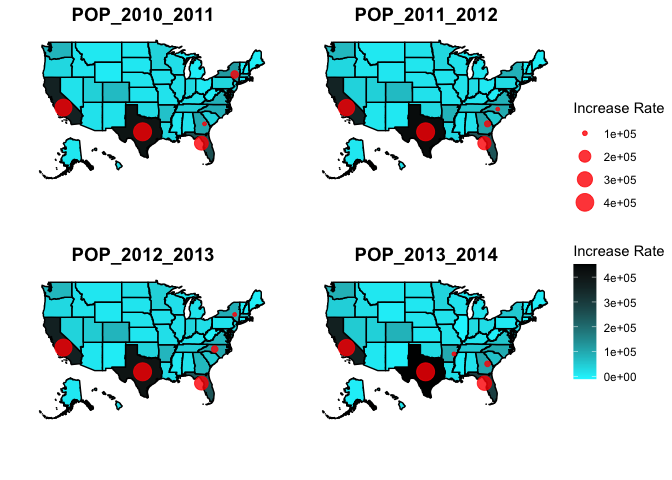
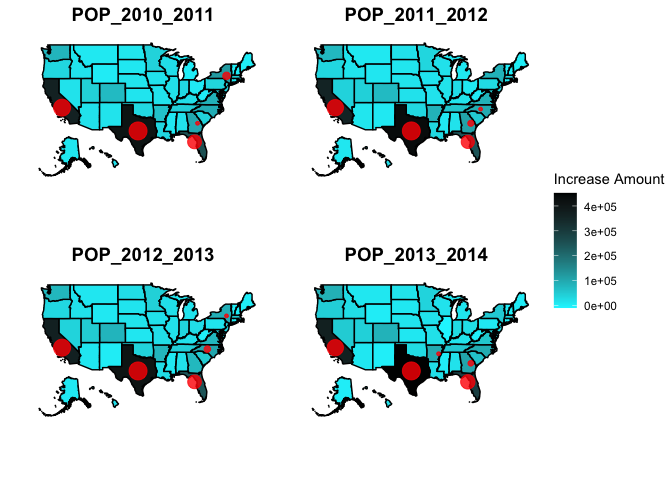
Modification of the map

diff --git a/Population_GDP/xinyu_gao.md b/Population_GDP/xinyu_gao.md
@@ -366,8 +366,10 @@ POP_2010_2011 <-ggplot(data = pop_states) +
    axis.text.y = element_blank(),
    axis.ticks = element_blank(),
    panel.grid.major = element_blank(), 
-   panel.grid.minor = element_blank())+ labs(fill='Increase Rate') +
-  geom_point(data = Top_2010_2011,aes(x=long,y=lat, size=POP_2010_2011),color="red",alpha=0.8) +  scale_size(name="Increase Rate")
+   panel.grid.minor = element_blank())+ labs(fill='Increase Amount') + 
+  geom_point(data = Top_2010_2011,aes(x=long,y=lat, size=POP_2010_2011),color="red",alpha=0.8) + guides(size="none")
+
+# +  scale_size(name="Increase Rate")
 
 
 
@@ -384,7 +386,7 @@ POP_2011_2012 <-ggplot(data = pop_states) +
   axis.ticks = element_blank(),
   panel.grid.major = element_blank(), 
   panel.grid.minor = element_blank())+ labs(fill='2011-2012 GDP (MUSD)')+
-  geom_point(data = Top_2011_2012,aes(x=long,y=lat, size=POP_2011_2012),color="red",alpha=0.8)
+  geom_point(data = Top_2011_2012,aes(x=long,y=lat, size=POP_2011_2012),color="red",alpha=0.8) + guides(size="none")
 
 POP_2012_2013 <-ggplot(data = pop_states) + 
   geom_polygon(aes(x = long, y = lat, fill = POP_2012_2013, group = group), color = "black") + 
@@ -399,7 +401,7 @@ POP_2012_2013 <-ggplot(data = pop_states) +
   axis.ticks = element_blank(),
   panel.grid.major = element_blank(), 
   panel.grid.minor = element_blank())+ labs(fill='2012-2013 GDP (MUSD)')+
-  geom_point(data = Top_2012_2013,aes(x=long,y=lat, size=POP_2012_2013),color="red",alpha=0.8)
+  geom_point(data = Top_2012_2013,aes(x=long,y=lat, size=POP_2012_2013),color="red",alpha=0.8)+ guides(size="none")
 
 POP_2013_2014 <-ggplot(data = pop_states) + 
   geom_polygon(aes(x = long, y = lat, fill = POP_2013_2014, group = group), color = "black") + 
@@ -414,7 +416,7 @@ POP_2013_2014 <-ggplot(data = pop_states) +
   axis.ticks = element_blank(),
   panel.grid.major = element_blank(), 
   panel.grid.minor = element_blank())+ labs(fill='2013-2014 GDP (MUSD)') +
-  geom_point(data = Top_2013_2014,aes(x=long,y=lat, size=POP_2013_2014),color="red",alpha=0.8)
+  geom_point(data = Top_2013_2014,aes(x=long,y=lat, size=POP_2013_2014),color="red",alpha=0.8)+ guides(size="none")
 
  ggarrange( POP_2010_2011, POP_2011_2012,POP_2012_2013, POP_2013_2014,
             labels = c("POP_2010_2011", "POP_2011_2012", "POP_2012_2013","POP_2013_2014"),
@@ -501,8 +503,8 @@ GDP_2010_2011 <-ggplot(data = GDP_states) +
    axis.text.y = element_blank(),
    axis.ticks = element_blank(),
    panel.grid.major = element_blank(), 
-   panel.grid.minor = element_blank())+ labs(fill='Increase Rate') +
-  geom_point(data = Top_2010_2011_GDP,aes(x=long,y=lat, size=GDP_2010_2011),color="red",alpha=0.8) +  scale_size(name="Increase Rate")
+   panel.grid.minor = element_blank())+ labs(fill='Increase Amount') +
+  geom_point(data = Top_2010_2011_GDP,aes(x=long,y=lat, size=GDP_2010_2011),color="red",alpha=0.8)  + guides(size="none")
 
 
 
@@ -519,7 +521,7 @@ GDP_2011_2012 <-ggplot(data = GDP_states) +
   axis.ticks = element_blank(),
   panel.grid.major = element_blank(), 
   panel.grid.minor = element_blank())+ labs(fill='2011-2012 GDP (MUSD)')+
-  geom_point(data = Top_2011_2012_GDP,aes(x=long,y=lat, size=GDP_2011_2012),color="red",alpha=0.8)
+  geom_point(data = Top_2011_2012_GDP,aes(x=long,y=lat, size=GDP_2011_2012),color="red",alpha=0.8) + guides(size="none")
 
 GDP_2012_2013 <-ggplot(data = GDP_states) + 
   geom_polygon(aes(x = long, y = lat, fill = GDP_2012_2013, group = group), color = "black") + 
@@ -534,7 +536,7 @@ GDP_2012_2013 <-ggplot(data = GDP_states) +
   axis.ticks = element_blank(),
   panel.grid.major = element_blank(), 
   panel.grid.minor = element_blank())+ labs(fill='2012-2013 GDP (MUSD)')+
-  geom_point(data = Top_2012_2013_GDP,aes(x=long,y=lat, size=GDP_2012_2013),color="red",alpha=0.8)
+  geom_point(data = Top_2012_2013_GDP,aes(x=long,y=lat, size=GDP_2012_2013),color="red",alpha=0.8) + guides(size="none")
 
 GDP_2013_2014 <-ggplot(data = GDP_states) + 
   geom_polygon(aes(x = long, y = lat, fill = GDP_2013_2014, group = group), color = "black") + 
@@ -549,7 +551,7 @@ GDP_2013_2014 <-ggplot(data = GDP_states) +
   axis.ticks = element_blank(),
   panel.grid.major = element_blank(), 
   panel.grid.minor = element_blank())+ labs(fill='2013-2014 GDP (MUSD)') +
-  geom_point(data = Top_2013_2014_GDP,aes(x=long,y=lat, size=GDP_2013_2014),color="red",alpha=0.8)
+  geom_point(data = Top_2013_2014_GDP,aes(x=long,y=lat, size=GDP_2013_2014),color="red",alpha=0.8) + guides(size="none")
 
  ggarrange( GDP_2010_2011, GDP_2011_2012,GDP_2012_2013, GDP_2013_2014,
             labels = c("GDP_2010_2011", "GDP_2011_2012", "GDP_2012_2013","GDP_2013_2014"),
@@ -736,7 +738,7 @@ POP_2010_2011 <-ggplot(data = pop_states) +
    axis.ticks = element_blank(),
    panel.grid.major = element_blank(), 
    panel.grid.minor = element_blank())+ labs(fill='Increase Rate') +
-  geom_point(data = Top_2010_2011,aes(x=long,y=lat, size=POP_2010_2011),color="red",alpha=0.8) +  scale_size(name="Increase Rate")
+  geom_point(data = Top_2010_2011,aes(x=long,y=lat, size=POP_2010_2011),color="red",alpha=0.8) + guides(size="none")
 
 
 
@@ -753,7 +755,7 @@ POP_2011_2012 <-ggplot(data = pop_states) +
   axis.ticks = element_blank(),
   panel.grid.major = element_blank(), 
   panel.grid.minor = element_blank())+ labs(fill='2011-2012 GDP (MUSD)')+
-  geom_point(data = Top_2011_2012,aes(x=long,y=lat, size=POP_2011_2012),color="red",alpha=0.8)
+  geom_point(data = Top_2011_2012,aes(x=long,y=lat, size=POP_2011_2012),color="red",alpha=0.8) + guides(size="none")
 
 POP_2012_2013 <-ggplot(data = pop_states) + 
   geom_polygon(aes(x = long, y = lat, fill = POP_2012_2013, group = group), color = "black") + 
@@ -768,7 +770,7 @@ POP_2012_2013 <-ggplot(data = pop_states) +
   axis.ticks = element_blank(),
   panel.grid.major = element_blank(), 
   panel.grid.minor = element_blank())+ labs(fill='2012-2013 GDP (MUSD)')+
-  geom_point(data = Top_2012_2013,aes(x=long,y=lat, size=POP_2012_2013),color="red",alpha=0.8)
+  geom_point(data = Top_2012_2013,aes(x=long,y=lat, size=POP_2012_2013),color="red",alpha=0.8) + guides(size="none")
 
 POP_2013_2014 <-ggplot(data = pop_states) + 
   geom_polygon(aes(x = long, y = lat, fill = POP_2013_2014, group = group), color = "black") + 
@@ -783,7 +785,7 @@ POP_2013_2014 <-ggplot(data = pop_states) +
   axis.ticks = element_blank(),
   panel.grid.major = element_blank(), 
   panel.grid.minor = element_blank())+ labs(fill='2013-2014 GDP (MUSD)') +
-  geom_point(data = Top_2013_2014,aes(x=long,y=lat, size=POP_2013_2014),color="red",alpha=0.8)
+  geom_point(data = Top_2013_2014,aes(x=long,y=lat, size=POP_2013_2014),color="red",alpha=0.8)+ guides(size="none")
 
  ggarrange( POP_2010_2011, POP_2011_2012,POP_2012_2013, POP_2013_2014,
             labels = c("POP_2010_2011", "POP_2011_2012", "POP_2012_2013","POP_2013_2014"),
@@ -872,7 +874,7 @@ GDP_2010_2011 <-ggplot(data = GDP_states) +
    axis.ticks = element_blank(),
    panel.grid.major = element_blank(), 
    panel.grid.minor = element_blank())+ labs(fill='Increase Rate') +
-  geom_point(data = Top_2010_2011_GDP,aes(x=long,y=lat, size=GDP_2010_2011),color="red",alpha=0.8) +  scale_size(name="Increase Rate")
+  geom_point(data = Top_2010_2011_GDP,aes(x=long,y=lat, size=GDP_2010_2011),color="red",alpha=0.8) + guides(size="none")
 
 GDP_2011_2012 <-ggplot(data = GDP_states) + 
   geom_polygon(aes(x = long, y = lat, fill = GDP_2011_2012, group = group), color = "black") + 
@@ -887,7 +889,7 @@ GDP_2011_2012 <-ggplot(data = GDP_states) +
   axis.ticks = element_blank(),
   panel.grid.major = element_blank(), 
   panel.grid.minor = element_blank())+ labs(fill='2011-2012 GDP (MUSD)')+
-  geom_point(data = Top_2011_2012_GDP,aes(x=long,y=lat, size=GDP_2011_2012),color="red",alpha=0.8)
+  geom_point(data = Top_2011_2012_GDP,aes(x=long,y=lat, size=GDP_2011_2012),color="red",alpha=0.8)+ guides(size="none")
 
 GDP_2012_2013 <-ggplot(data = GDP_states) + 
   geom_polygon(aes(x = long, y = lat, fill = GDP_2012_2013, group = group), color = "black") + 
@@ -902,7 +904,7 @@ GDP_2012_2013 <-ggplot(data = GDP_states) +
   axis.ticks = element_blank(),
   panel.grid.major = element_blank(), 
   panel.grid.minor = element_blank())+ labs(fill='2012-2013 GDP (MUSD)')+
-  geom_point(data = Top_2012_2013_GDP,aes(x=long,y=lat, size=GDP_2012_2013),color="red",alpha=0.8)
+  geom_point(data = Top_2012_2013_GDP,aes(x=long,y=lat, size=GDP_2012_2013),color="red",alpha=0.8)+ guides(size="none")
 
 GDP_2013_2014 <-ggplot(data = GDP_states) + 
   geom_polygon(aes(x = long, y = lat, fill = GDP_2013_2014, group = group), color = "black") + 
@@ -917,7 +919,7 @@ GDP_2013_2014 <-ggplot(data = GDP_states) +
   axis.ticks = element_blank(),
   panel.grid.major = element_blank(), 
   panel.grid.minor = element_blank())+ labs(fill='2013-2014 GDP (MUSD)') +
-  geom_point(data = Top_2013_2014_GDP,aes(x=long,y=lat, size=GDP_2013_2014),color="red",alpha=0.8)
+  geom_point(data = Top_2013_2014_GDP,aes(x=long,y=lat, size=GDP_2013_2014),color="red",alpha=0.8)+ guides(size="none")
 
  ggarrange( GDP_2010_2011, GDP_2011_2012,GDP_2012_2013, GDP_2013_2014,
             labels = c("GDP_2010_2011", "GDP_2011_2012", "GDP_2012_2013","GDP_2013_2014"),
